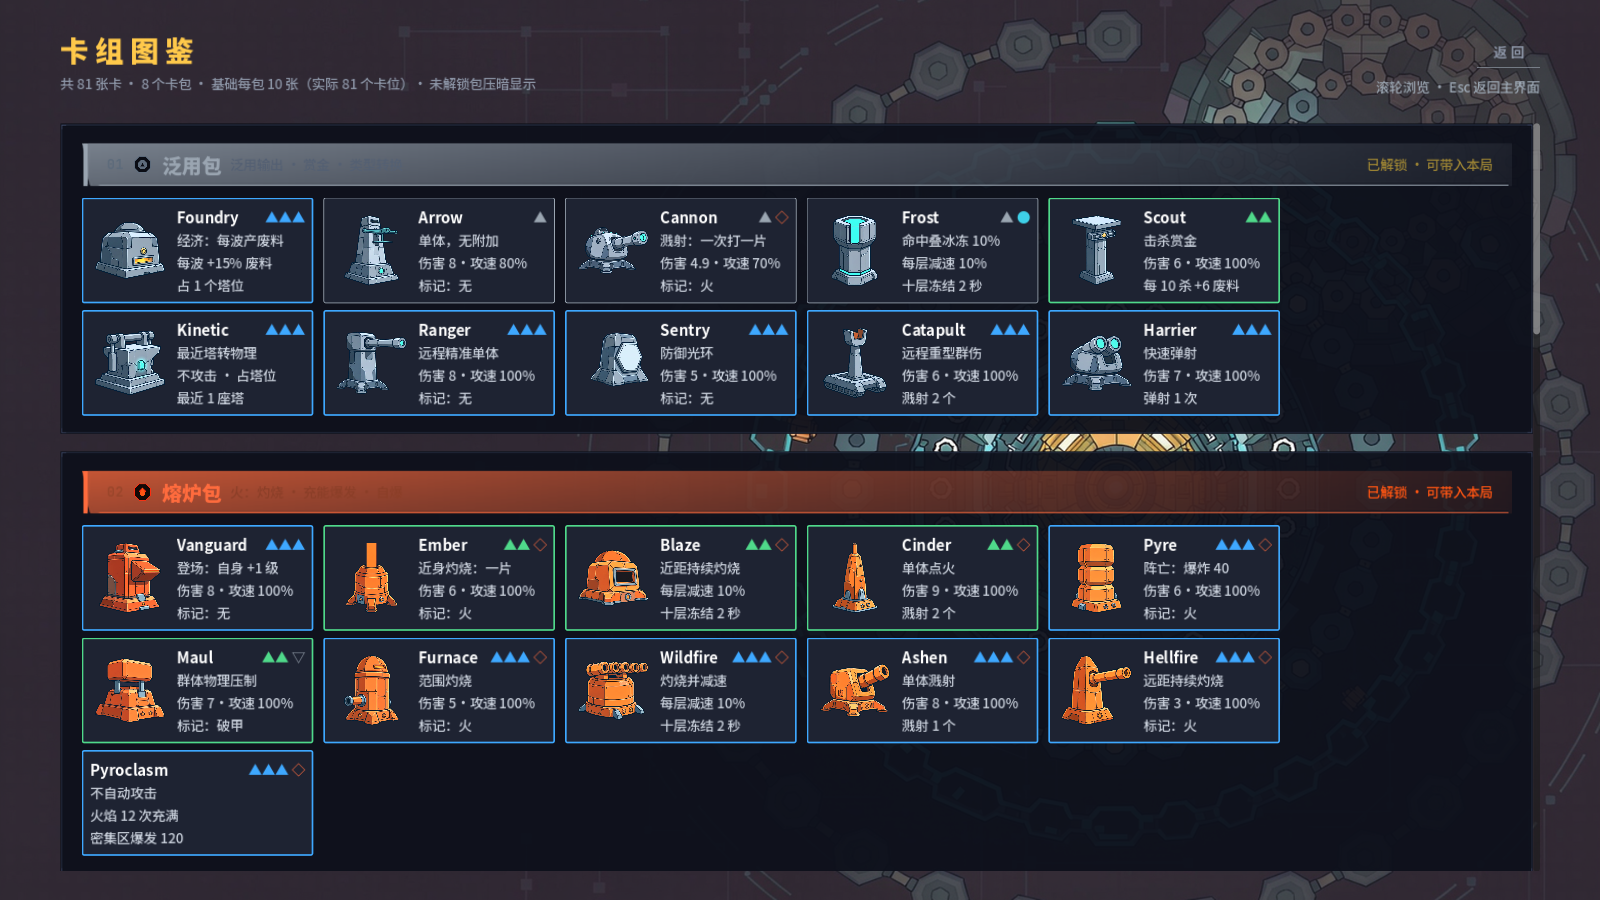
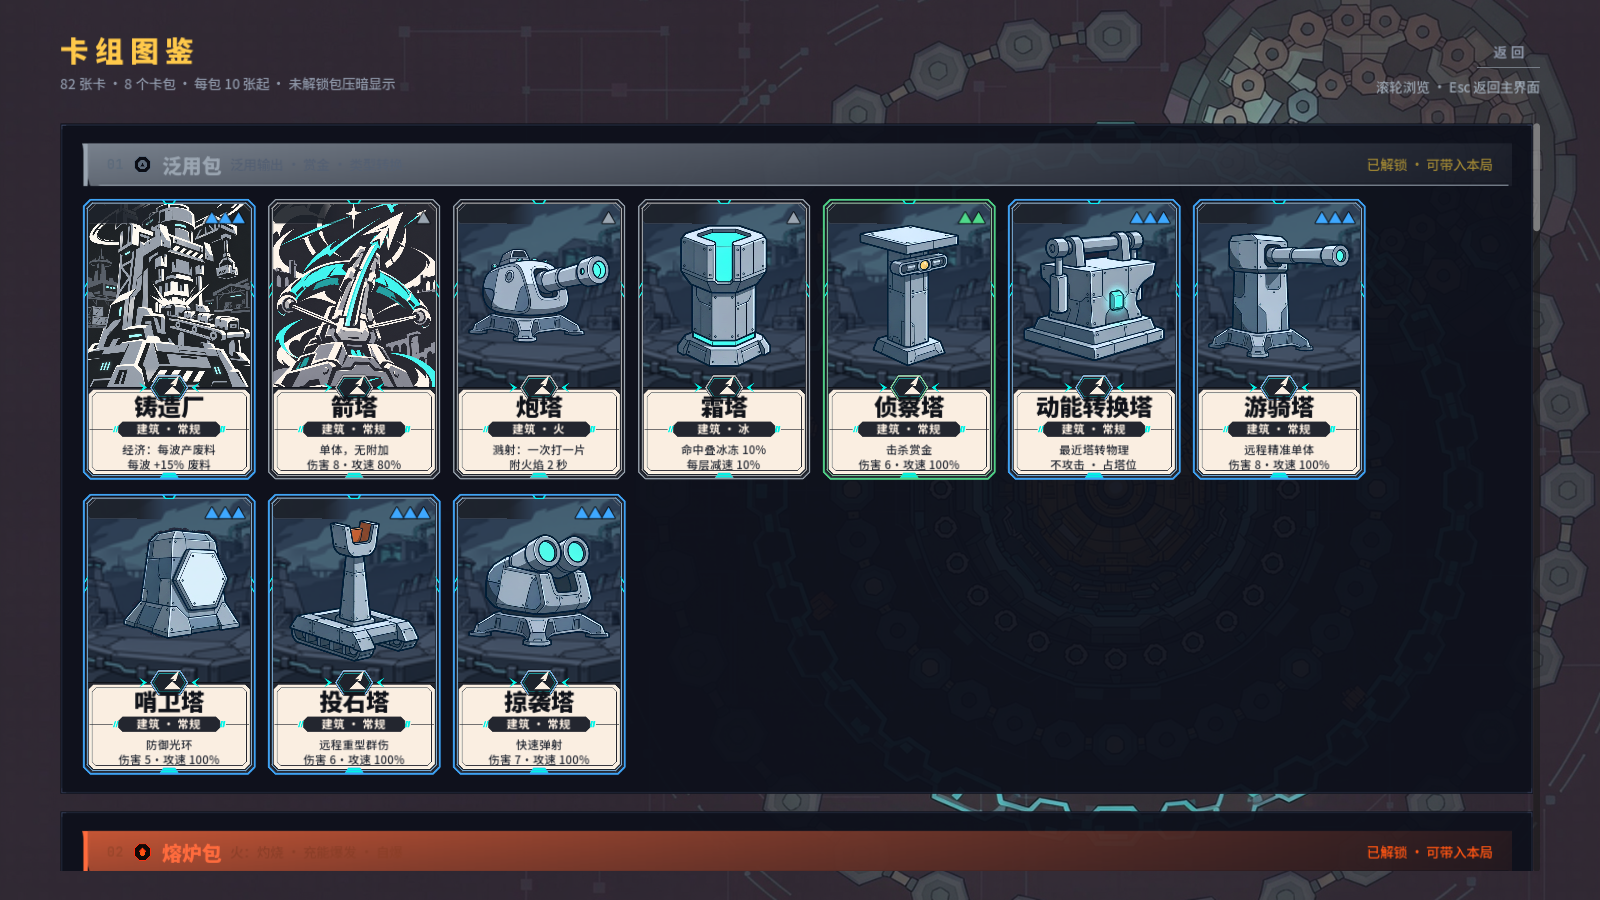
feat(ui): 卡组图鉴改用 v3.2 竖版卡面
- 新增 `scripts/ui/card_face.gd`：只读卡面构建器（210×340），与商店共用卡框贴图
  （`ui_card_plate_v3` / `ui_card_edge_v3_{1..3}` / `ui_card_badge_v3`）与同一字阶
  （卡名 28 / 类型 14 / 摘要 14×2 / 插画窗 8,8,194,220）；不接价格胶囊、锁头、悬停与购买。
- 图鉴网格 5 → 7 列（7×210 + 6×12 = 1542 ≤ 1648），`CARD_SIZE` 320×126 → 210×340；
  右上角空出的费用位改放稀有度 ▲，描边颜色与线宽仍按 `RARITY.bw` 双通道。
- 类型条与商店逐字同文案（「建筑 · 常规」/「建筑 · 火」…）。
- 字号断言：`run_ui_style_asserts` 对主界面加 `card_face_small` 豁免（与商店卡面同一处例外），
  并单独判 13–14px；**汇总 148 项 / 0 失败**。
- 实机截帧：`art/_review/ui_all/02_library.png`（`tools/shoot_ui_all.gd`）。
- 未改玩法、数值、商店逻辑与存档。

diff --git a/docs/phase6/handoff-2026-11-11-card-spec.md b/docs/phase6/handoff-2026-11-11-card-spec.md
@@ -93,5 +93,21 @@
 
 - 默认全量回归：`output/card-spec-full.log` → **exit 0**（7m22s），`world 结论：PASS（23.4 s）`，
   新增 `card_spec` 门 **exit=0 / 569 ms / 失败标记 0 处**；各切片失败 0 项。
-- 日志里 `[PASS] 54 [FAIL] 0` 等为单切片计数行，非失败。
+- 日志里 `[PASS] 54 [FAIL] 0` 是单切片计数行，非失败。
 - 退出时的 ObjectDB / RID / resource 清理警告为既有现象，非本轮引入。
+
+## 7. 图鉴跟进（同日 12:1x · 大肥鱼）
+
+卡组图鉴原先还是「320×126 横条卡（96² 缩略图 + 两行字）」，与商店卡面两套语言。本轮改成同一套 v3.2 竖版卡面：
+
+- 新增 `scripts/ui/card_face.gd`（只读卡面构建器，`SIZE = 210×340`）：与商店**共用**卡框贴图
+  （`ui_card_plate_v3` / `ui_card_edge_v3_{1..3}` / `ui_card_badge_v3`）与同一字阶
+  （卡名 28 / 类型 14 / 摘要 14×2 / 插画窗 8,8,194,220）；不接价格、锁头、悬停与购买。
+- 图鉴网格 5 列 → **7 列**（7×210 + 6×12 = 1542 ≤ 1648），`CARD_SIZE` 改 210×340。
+- 右上角空出的费用位改放稀有度 ▲；描边颜色与线宽仍按 `RARITY.bw` 双通道。
+- **图鉴不显示价格**（2026-11-11 用户明确）：卡片是"图鉴条目"不是商品，费用只在商店出现；
+  右上角价格槽位固定放稀有度，不随解锁状态变化。
+- 类型条文案与商店逐字一致（「建筑 · 常规」/「建筑 · 火」…）。
+- 字号断言：`run_ui_style_asserts` 为主界面标签加 `card_face_small` 豁免（与商店卡面同一例外），
+  并单独判 13–14px —— **汇总 148 项 / 0 失败**。
+- 实机截图：`art/_review/ui_all/02_library.png`（`tools/shoot_ui_all.gd` 全页截帧）。

diff --git a/AGENTS.md b/AGENTS.md
@@ -42,7 +42,7 @@ GODOT="C:/Program Files (x86)/Steam/steamapps/common/Godot Engine/godot.windows.
 
 ## 当前状态（2026-11-10，详见 handoff-2026-11-10-gameplay.md）
 
-- 卡面 v3.2（210×340 卡槽 / 插画 ≈70% / 信息区 ≈30% / 卡名 28 · 类型与摘要 14 / 锁左上 · 费用右上）+ 主菜单「怪物图鉴」+ 移除 `1/2/3` 快捷购买（购买只走点击整卡，焦点位随鼠标悬停）：见 `docs/phase6/handoff-2026-11-11-card-spec.md`、`monster-library.md`。默认全量回归 exit 0，`card_spec` 专项（20 项）已进默认回归。⚠ 卡面 14px 是 §9.1「玩家可见文本 ≥16px」的唯一例外，**待拍板**。
+- 卡面 v3.2（210×340 卡槽 / 插画 ≈70% / 信息区 ≈30% / 卡名 28 · 类型与摘要 14 / 锁左上 · 费用右上）+ 主菜单「怪物图鉴」+ 移除 `1/2/3` 快捷购买（购买只走点击整卡，焦点位随鼠标悬停）：见 `docs/phase6/handoff-2026-11-11-card-spec.md`、`monster-library.md`。默认全量回归 exit 0，`card_spec` 专项（20 项）已进默认回归。**卡组图鉴同步改用同一套竖版卡面**（`scripts/ui/card_face.gd`，7 列网格）。⚠ 卡面 14px 是 §9.1「玩家可见文本 ≥16px」的唯一例外，**待拍板**。
 
 - 基地美术 / 十九格禁建区、准备阶段下一波出怪预告、商店背景铺满卡框：见 `docs/phase6/base-and-card-art-2026-11-10.md` 与 `spawn-preview.md`。出怪预告专项已加入默认 world 门禁；其他会话的界面与火焰数值改动继续单独保留。
 
